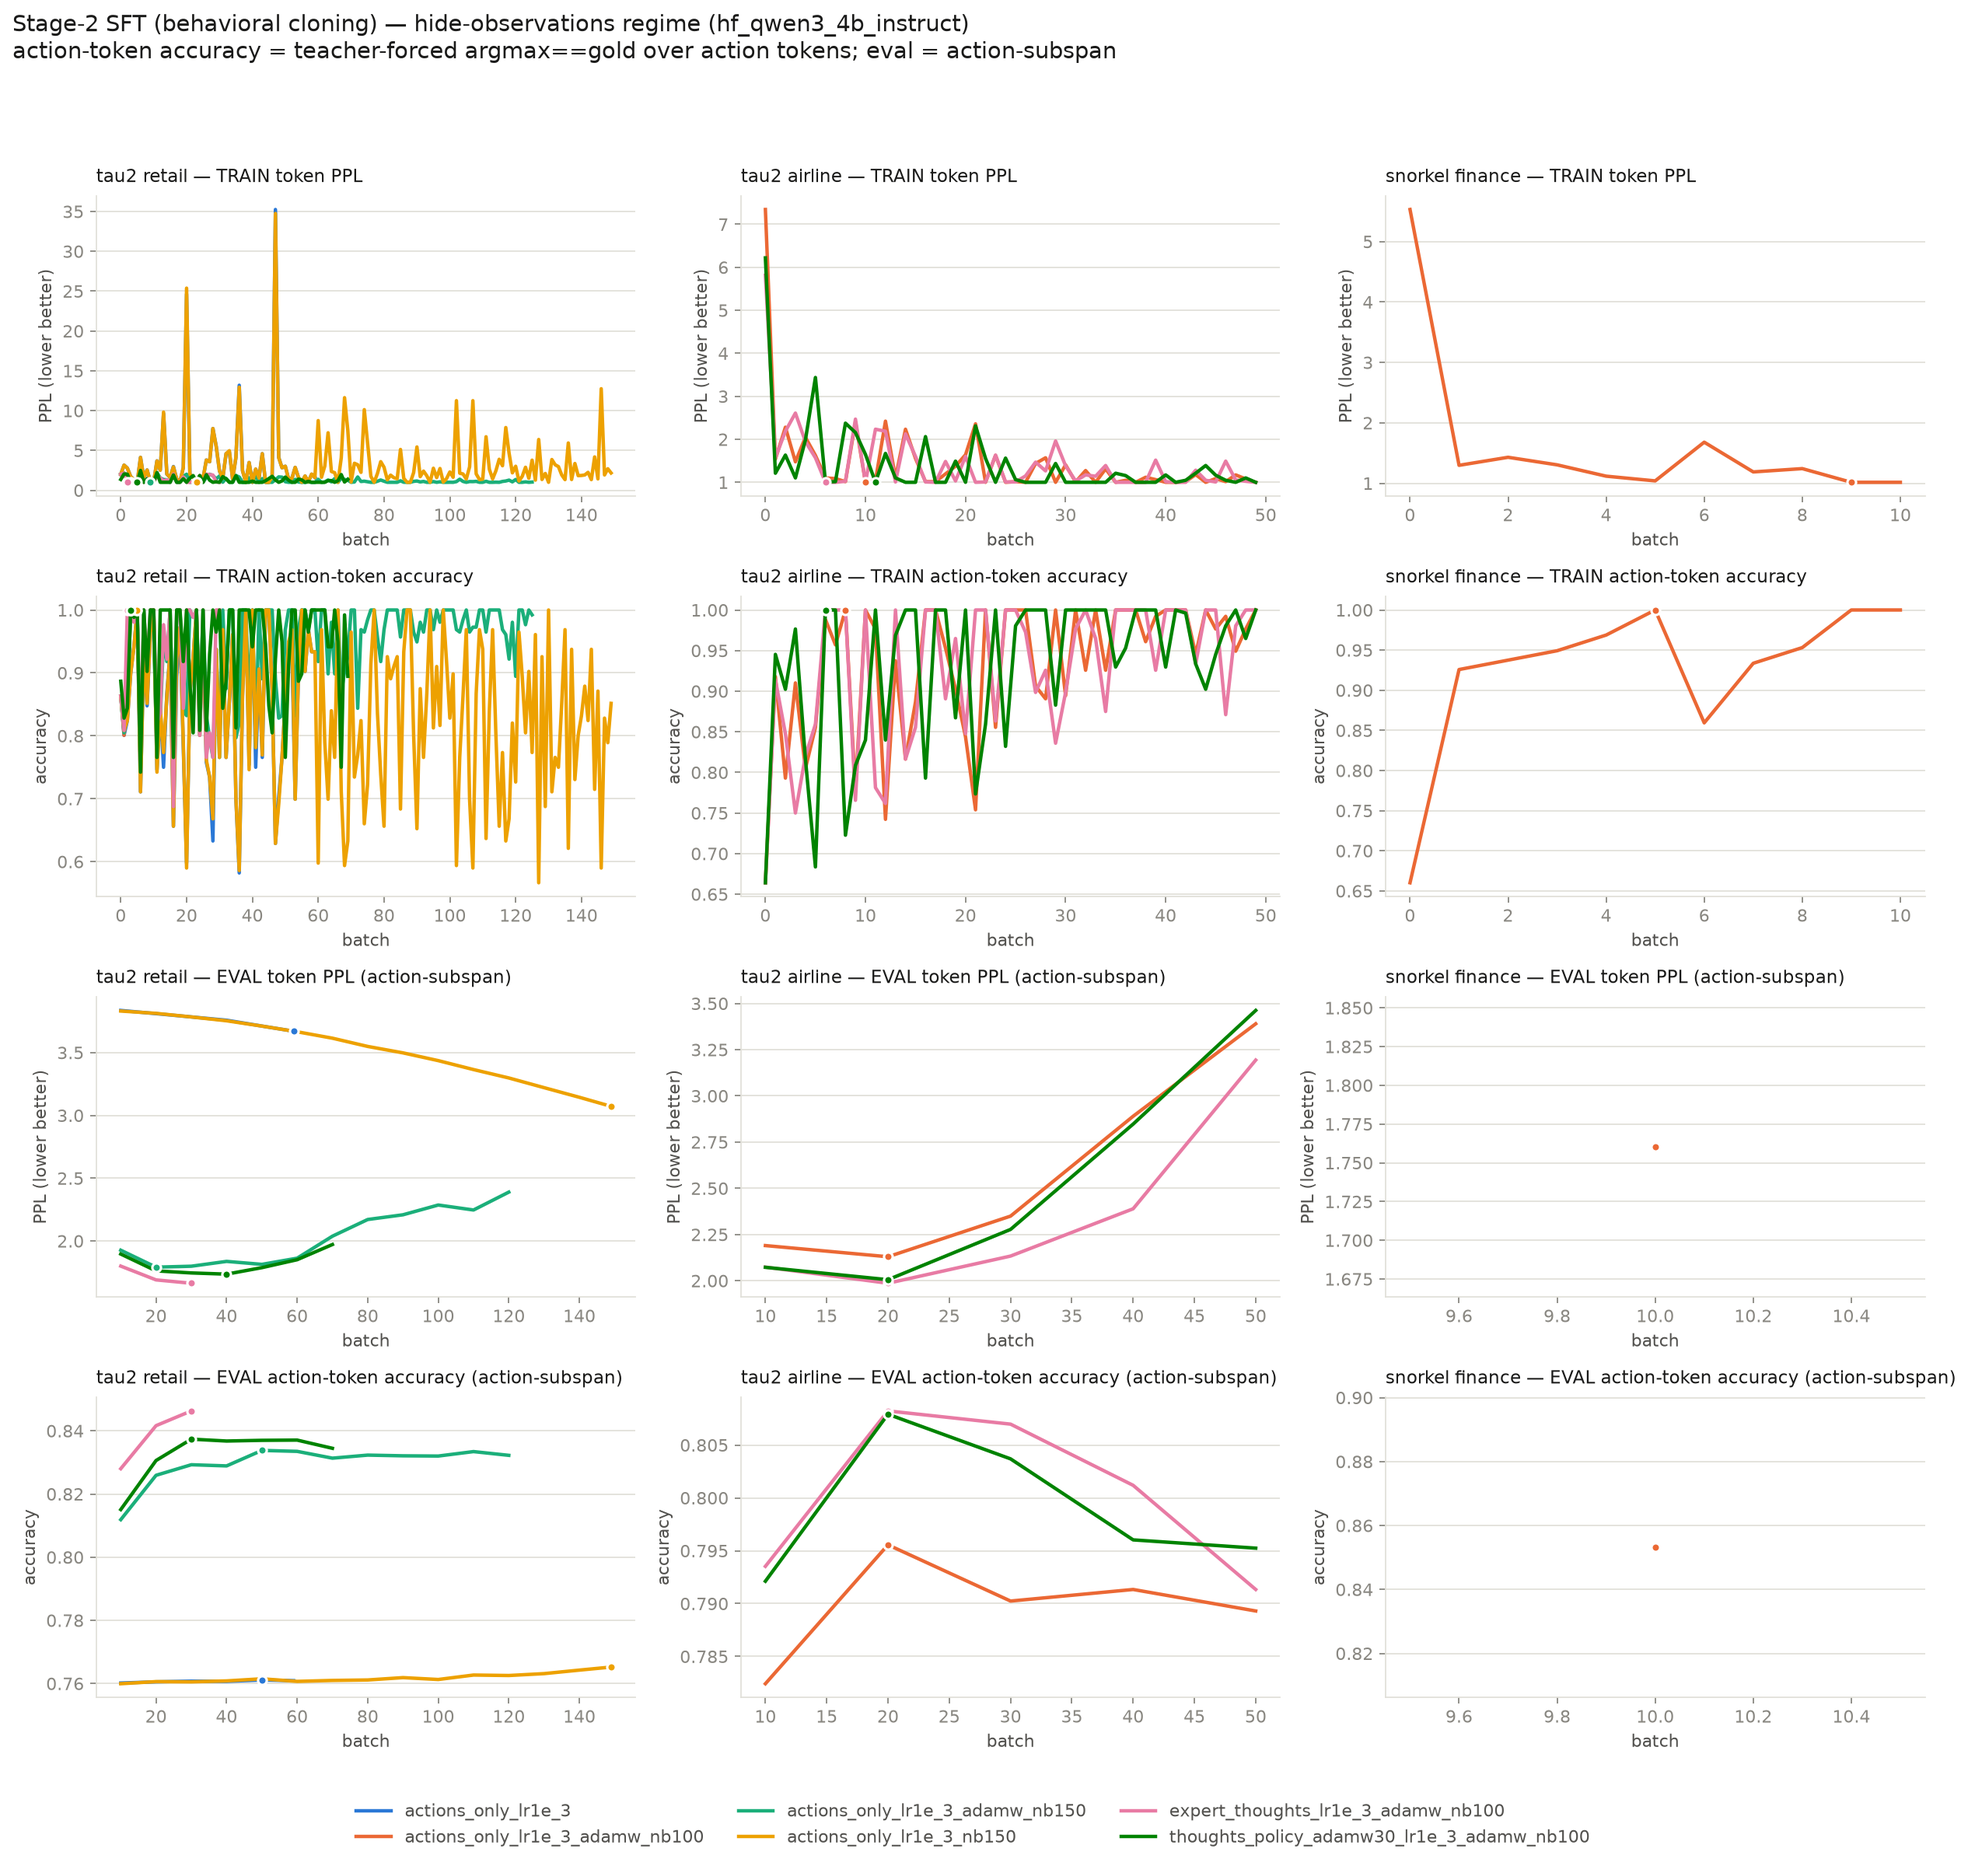
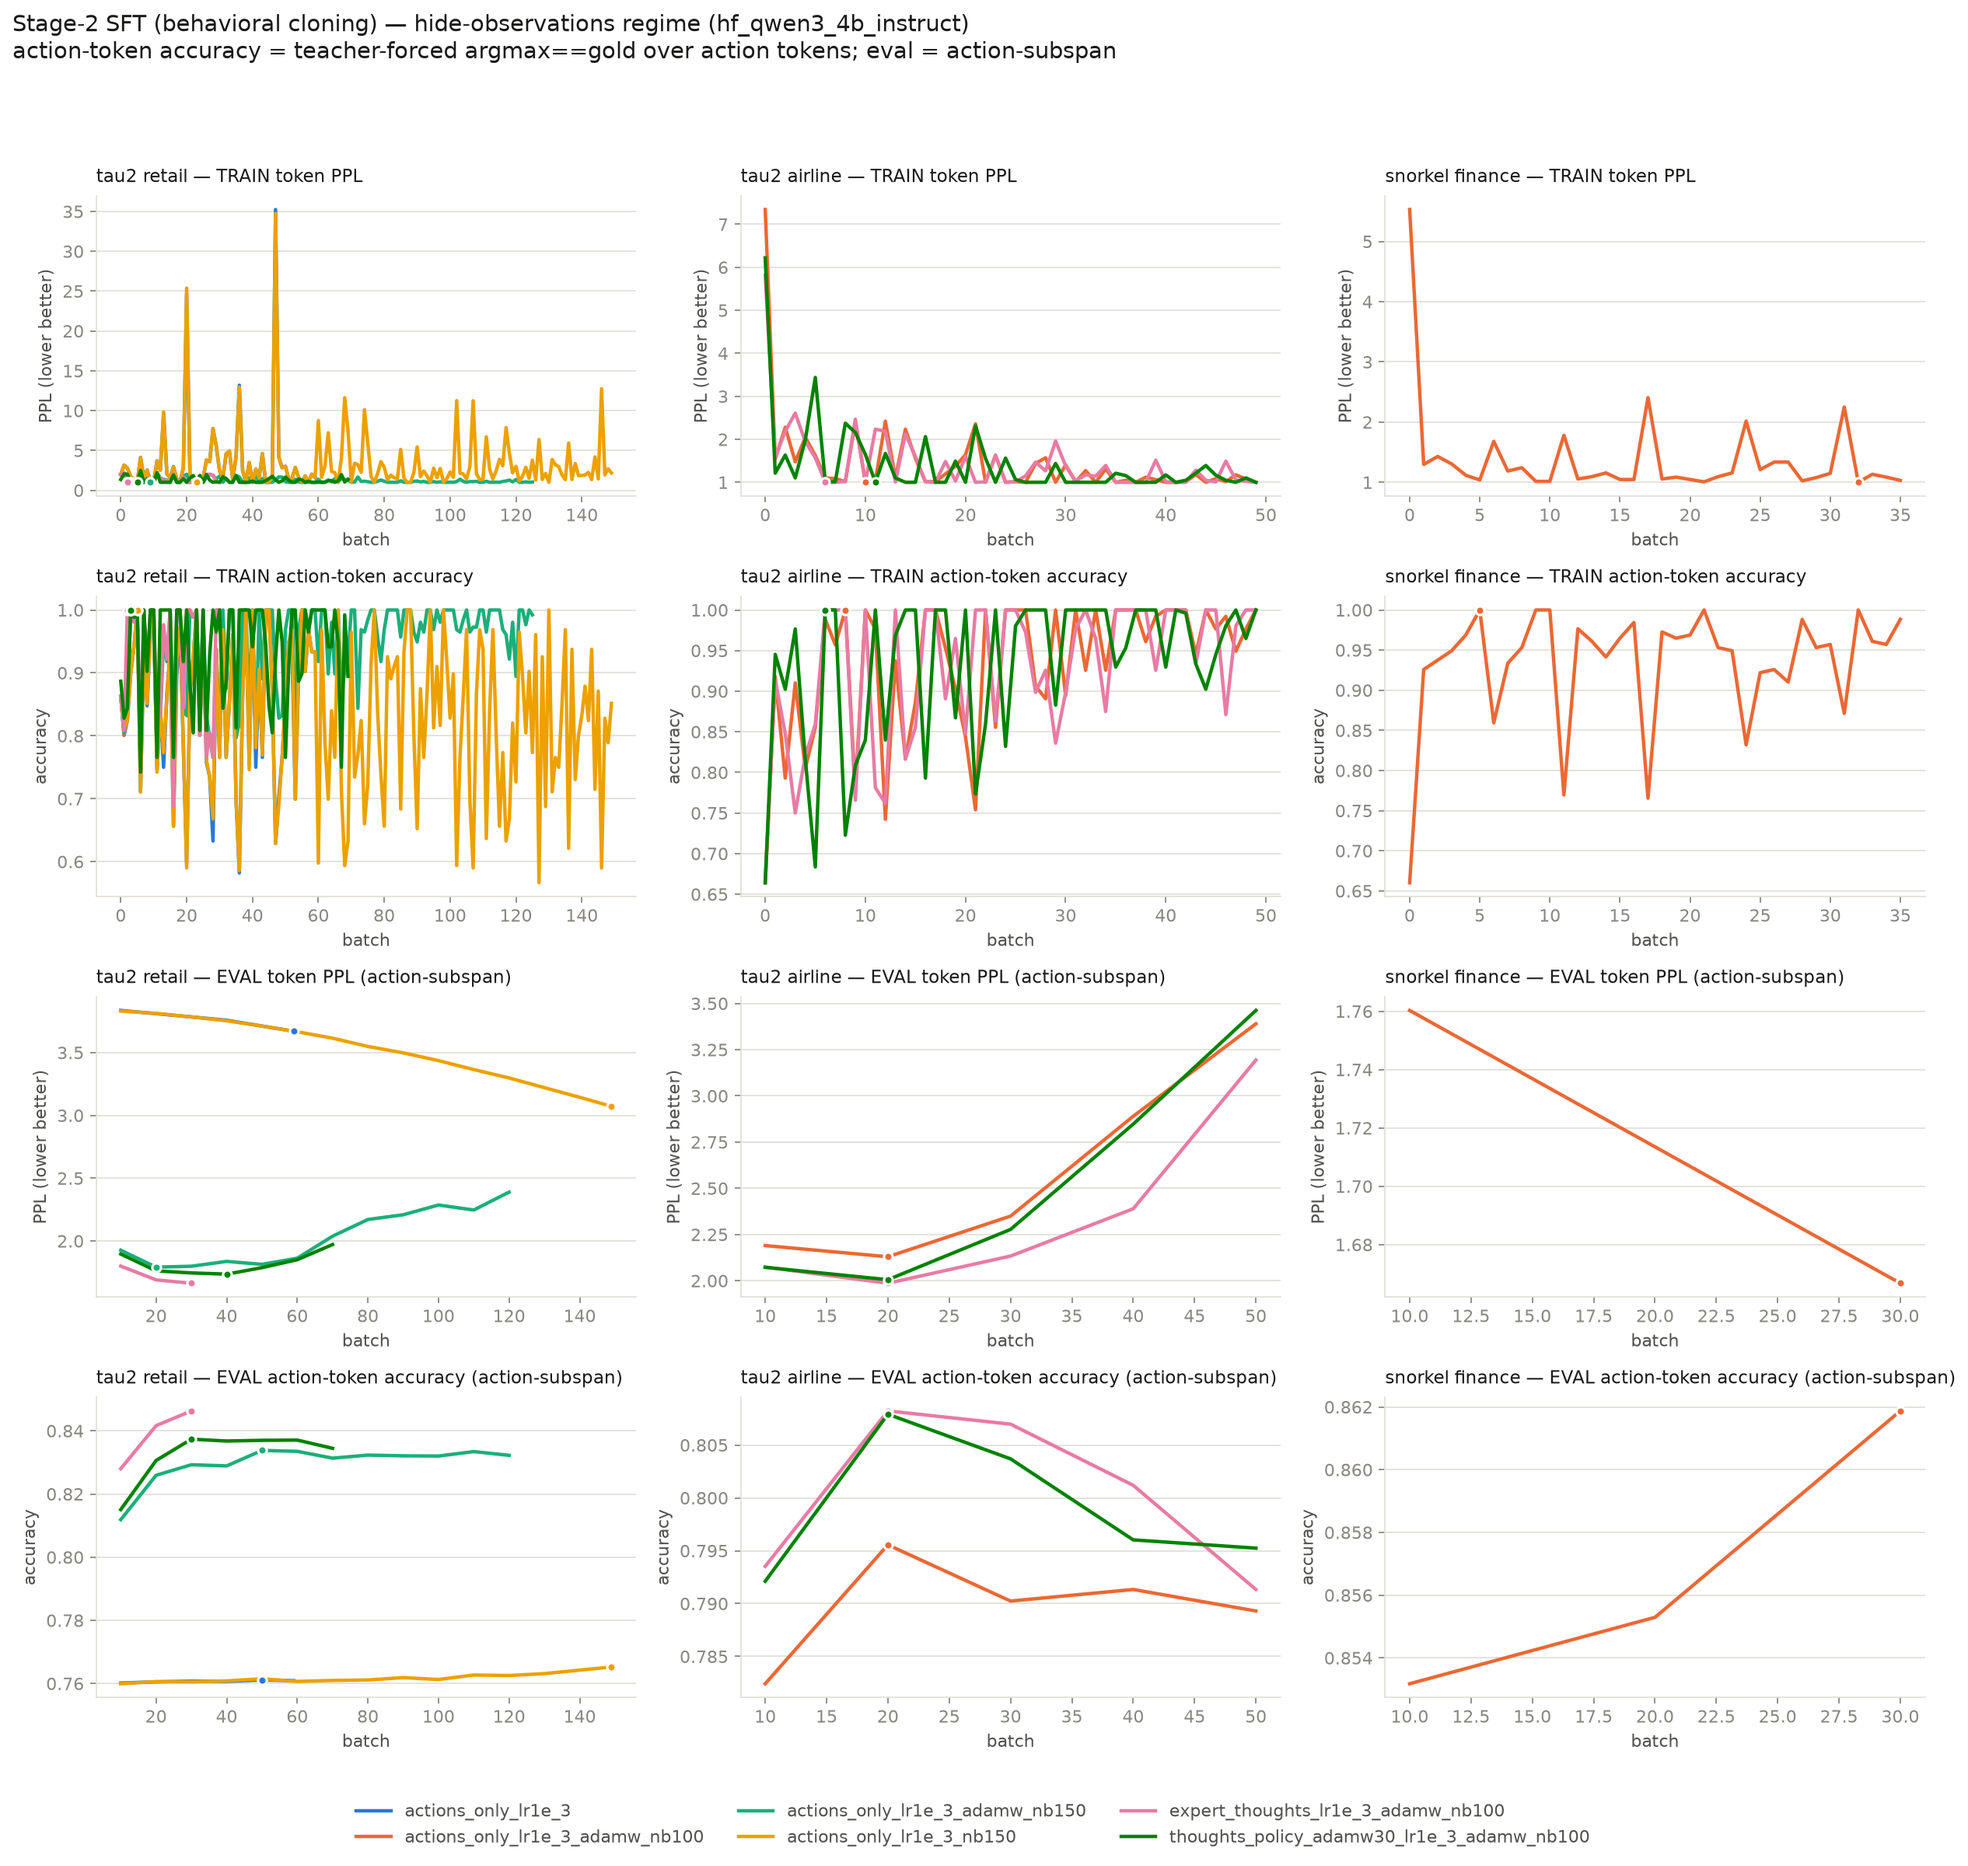
auto: SFT LR sweep results snapshot

diff --git a/notes/cc-3.0-snorkel_finance_split_sft_results.md b/notes/cc-3.0-snorkel_finance_split_sft_results.md
@@ -19,7 +19,7 @@ for wordiness rather than for mispredicting the action, which inverts the rankin
 | thoughts_policy | full | 2.0398 | 0.8847 | 50 | 2.6809 | 0.8065 | 50 | 0.9983 |
 | thoughts_base | hide | 2.3662 | 0.8491 | 59 | 3.1226 | 0.7746 | 59 | 0.7706 |
 | thoughts_base | full | 2.0637 | 0.8837 | 40 | 2.7097 | 0.8058 | 30 | 0.8326 |
-| actions_only_lr1e_3_adamw_nb100 | hide | 1.7603 | 0.8532 | 10 | 1.7603 | 0.8532 | 10 | 0.0157 |
+| actions_only_lr1e_3_adamw_nb100 | hide | 1.6668 | 0.8619 | 30 | 1.6668 | 0.8619 | 30 | 0.0307 |
 | actions_only_lr3e_3_nb150 | hide | 1.8930 | 0.8398 | 149 | 1.8930 | 0.8398 | 149 | 0.3245 |
 | actions_only_v3_lr3e_3_nb150 | hide | 1.9282 | 0.8407 | 149 | 1.9282 | 0.8407 | 149 | 0.4563 |
 | expert_thoughts_all_v3_lr3e_3_nb150 | hide | 1.9557 | 0.8413 | 149 | 1.9918 | 0.8336 | 149 | 1.5311 |
@@ -50,7 +50,7 @@ that saved step:
 | thoughts_policy | full | 2.0398 | 0.8847 |
 | thoughts_base | hide | 2.3662 | 0.8491 |
 | thoughts_base | full | 2.0646 | 0.8838 |
-| actions_only_lr1e_3_adamw_nb100 | hide | 1.7603 | 0.8532 |
+| actions_only_lr1e_3_adamw_nb100 | hide | 1.6668 | 0.8619 |
 | actions_only_lr3e_3_nb150 | hide | 1.8930 | 0.8398 |
 | actions_only_v3_lr3e_3_nb150 | hide | 1.9282 | 0.8407 |
 | expert_thoughts_all_v3_lr3e_3_nb150 | hide | 1.9557 | 0.8413 |

diff --git a/notes/cc-5.0-sft-lr-investigation.md b/notes/cc-5.0-sft-lr-investigation.md
@@ -372,11 +372,11 @@ retail/thoughts_policy_adamw30_lr1e_3_adamw_nb100    hide   70     1.8959 ->   1
 airline/actions_only_lr1e_3_adamw_nb100              hide   50     2.1901 ->   3.3899 -54.78%  0.7893        1.0000  <running>
 airline/expert_thoughts_lr1e_3_adamw_nb100           hide   50     2.0737 ->   3.1936 -54.00%  0.7913        1.0000  <running>
 airline/thoughts_policy_adamw30_lr1e_3_adamw_nb100   hide   50     2.0724 ->   3.4621 -67.06%  0.7952        1.0000  <running>
-snorkel_finance_split/actions_only_lr1e_3_adamw_nb100 hide   10     1.7603 ->   1.7603   0.00%  0.8532        1.0156  <running>
+snorkel_finance_split/actions_only_lr1e_3_adamw_nb100 hide   35     1.7603 ->   1.6668   5.31%  0.8619        1.0312  <running>
 
 2/10 arms complete   (Δ% = held-out action-subspan PPL improvement, higher is better)
 ```
-_last refreshed: 2026-08-30 07:20_
+_last refreshed: 2026-08-30 07:40_
 <!--/RESULTS-->
 
 ## Infrastructure
